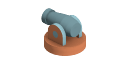
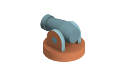
broken version, wip

Changed region(s): [[0.3125, 0.125, 0.6875, 0.9688]]

diff --git a/js/classes/Building.js b/js/classes/Building.js
@@ -7,7 +7,7 @@ class Building extends Sprite {
         //super (Sprite) sets various properties for image/animations
         super({
             position, 
-            imageSrc: 'img/towerSW.png', 
+            imageSrc: 'img/canonSW.png', 
             frames: {
                 max: 1
             },
@@ -23,49 +23,95 @@ class Building extends Sprite {
         //radius of turret range
         //target to fire projectiles at
         //elapsed spawn time for turret rate of fire
+        //upgrade level of the building
         this.width = 64;
         this.height = 64;
         this.projectiles = [];
         this.radius = 150;
         this.target = null;
         this.elapsedSpawnTime = 0;
+        this.upgradeLevel = 0;
+        this.imagePath = 'img/canonSW.png'
+
+        //building image paths
+        this.canonNW = 'img/canonNW.png';
+        this.canonNE = 'img/canonNE.png';
+        this.canonSW = 'img/canonSW.png';
+        this.canonSE = 'img/canonSE.png';
+        this.towerNW = 'img/towerNW.png';
+        this.towerNE = 'img/towerNE.png';
+        this.towerSW = 'img/towerSW.png';
+        this.towerSE = 'img/towerSE.png';
     }
 
     //draw building (called through Sprite)
     draw() {
-        super.draw();
+        super.draw(this.imagePath);
     }
 
     //draw and update building values
     update() {
-        this.draw();
+        
+        //if the building has a target
+        if (this.target) {
 
-        //building fires after set time and if a target exists
-        if (this.elapsedSpawnTime % 100 === 0 && this.target) {
-            
-            //set building image based on target location relative to building
+            //set building image based on target location relative to building (NW, NE, SW, SE)
             if (this.target.position.x < this.position.x && this.target.position.y < this.position.y) {
-                super.draw('img/towerNW.png');
+                
+                if (this.upgradeLevel === 0) {
+                    this.imagePath = this.canonNW;
+                }
+                else if (this.upgradeLevel === 1) {
+                    this.imagePath = this.towerNW;
+                }
             }
             else if (this.target.position.x > this.position.x && this.target.position.y < this.position.y) {
-                super.draw('img/towerNE.png');
+                
+                if (this.upgradeLevel === 0) {
+                    this.imagePath = this.canonNE;
+                }
+                else if (this.upgradeLevel === 1) {
+                    this.imagePath = this.towerNE;
+                }
             }
             else if (this.target.position.x < this.position.x && this.target.position.y > this.position.y) {
-                super.draw('img/towerSW.png');
+                
+                if (this.upgradeLevel === 0) {
+                    this.imagePath = this.canonSW;
+                }
+                else if (this.upgradeLevel === 1) {
+                    this.imagePath = this.towerSW;
+                }
             }
             else {
-                super.draw('img/towerSE.png');
+
+                if (this.upgradeLevel === 0) {
+                    this.imagePath = this.canonSE;
+                }
+                else if (this.upgradeLevel === 1) {
+                    this.imagePath = this.towerSE;
+                }
             }
 
-            //create and push projectile to projectiles array with building's target
-            this.projectiles.push(new Projectile({
-                position: {
-                    x: this.position.x - 8,
-                    y: this.position.y - 32
-                },
-                enemy: this.target
-            }));
+            //if elapsed time has occured
+            if (this.elapsedSpawnTime % 100 === 0) {
+                
+                //create and push projectile to projectiles array with building's target
+                this.projectiles.push(new Projectile({
+                    position: {
+                        x: this.position.x - 8,
+                        y: this.position.y - 32
+                    },
+                    enemy: this.target
+                }));
+            }
         }
+        else if (this.upgradeLevel === 1) {
+            this.imagePath = this.towerSW;
+        }
+        
+        //draw image
+        this.draw();
 
         //increment elapsed time
         this.elapsedSpawnTime++;

diff --git a/js/index.js b/js/index.js
@@ -38,24 +38,25 @@ youDiedAudio.src = 'sound/youDied.mp3';
 const enemies = [];
 
 //function to spawn enemies, called for each wave with varying quantity, speed, and health
-function spawnEnemies(spawnCount, speed, health) {
+function spawnEnemies(spawnCount, enemySpeed, enemyHealth) {
     for (let i = 1; i < spawnCount + 1; i ++) {
         const xOffset = i * 150;
-        enemies.push(new Enemy({position: {x: waypoints[0].x - xOffset, y: waypoints[0].y}, speed, health}));
+        enemies.push(new Enemy({position: {x: waypoints[0].x - xOffset, y: waypoints[0].y}, enemySpeed, enemyHealth}));
     }
 }
 
 //array to hold current buildings
 const buildings = [];
 
-//bunch of game values
+//bunch of game values set to game start values
 let activeTile = undefined;
 let enemyCount = 3;
 let hearts = 10;
 let coins = 100;
 let buildingCost = 50;
-let speed = 10;
-let health = 90;
+let upgradeCost = 100;
+let enemySpeed = 1;
+let enemyHealth = 90;
 let killCount = 0;
 let waveCount = 1;
 
@@ -79,7 +80,7 @@ function ordinal_suffix_of(i) {
 const explosions = [];
 
 //spawns first wave of enemies
-spawnEnemies(enemyCount, speed, health);
+spawnEnemies(enemyCount, enemySpeed, enemyHealth);
 
 //main game (animation) loop
 function animate() {
@@ -188,9 +189,9 @@ function animate() {
         
         //increase enemy count, speed, and health then spawn new wave
         enemyCount += 2;
-        speed += 0.25;
-        health += 5;
-        spawnEnemies(enemyCount, speed, health);
+        enemySpeed += 0.25;
+        enemyHealth += 5;
+        spawnEnemies(enemyCount, enemySpeed, enemyHealth);
 
         //increment wave count and update html
         waveCount++;
@@ -211,19 +212,38 @@ const mouse = {
 //event listener for clicking on canvas
 canvas.addEventListener('click', (event) => {
 
-    //if there is a tile hovered, the tile is not occupied, and you have enough coins
-    if (activeTile && !activeTile.isOccupied && coins >= buildingCost) {
+    //if there is a tile hovered
+    if (activeTile) {
 
-        //remove coins, update html, add building, set tile to occupied
-        coins -= buildingCost;
-        document.querySelector(".coins-value").innerHTML = coins;
-        buildings.push(new Building({
-            position: {
-                x: activeTile.position.x,
-                y: activeTile.position.y
-            }
-        }));
-        activeTile.isOccupied = true;
+        //if active tile is an unoccupied space, else has a building
+        if (!activeTile.isOccupied  && coins >= buildingCost) {
+
+            //remove coins, update html
+            coins -= buildingCost;
+            document.querySelector(".coins-value").innerHTML = coins;
+
+            //add building, set tile to occupied
+            buildings.push(new Building({
+                position: {
+                    x: activeTile.position.x,
+                    y: activeTile.position.y
+                }
+            }));
+            activeTile.isOccupied = true;
+        }
+        else if (activeTile.isOccupied  && coins >= upgradeCost) {
+
+            //remove coins, update html
+            coins -= upgradeCost;
+            document.querySelector(".coins-value").innerHTML = coins;
+
+            //upgrade building
+            buildings.forEach(building => {
+                if (building.position.x === activeTile.position.x && building.position.y === activeTile.position.y) {
+                    building.upgradeLevel++;
+                }
+            });
+        }
     }
 })
 
@@ -247,7 +267,7 @@ window.addEventListener('mousemove', (event) => {
     }
 })
 
-//event listener for clickign the begin button
+//event listener for clicking the begin button
 let beginButton = document.querySelector(".begin-button");
 beginButton.addEventListener('click', (event) => {
 

diff --git a/js/classes/Sprite.js b/js/classes/Sprite.js
@@ -36,7 +36,7 @@ class Sprite {
         };
 
         //if passed value is different than current, replace (this is for buildings' unique images)
-        if (imageSrc.src != this.image.src) {
+        if (imageSrc != this.image.src) {
             this.image.src = imageSrc;
         }
 
